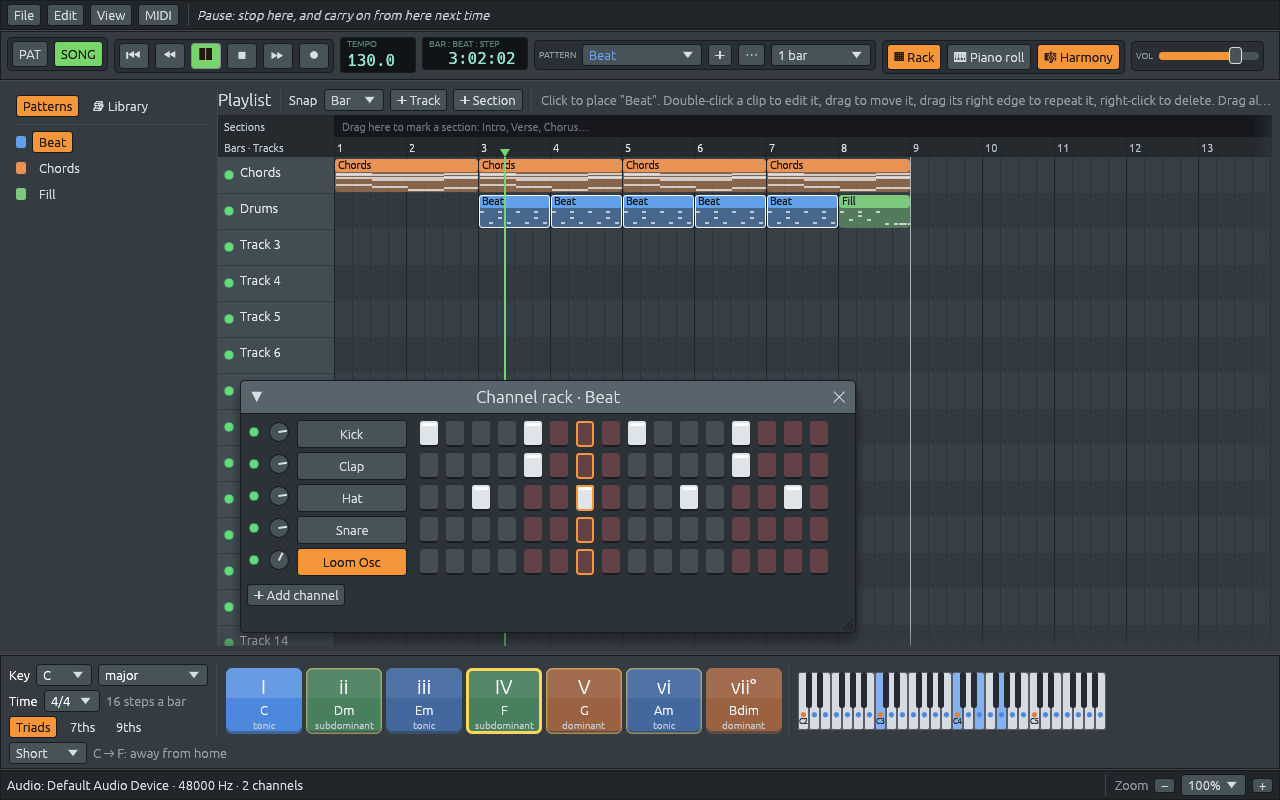
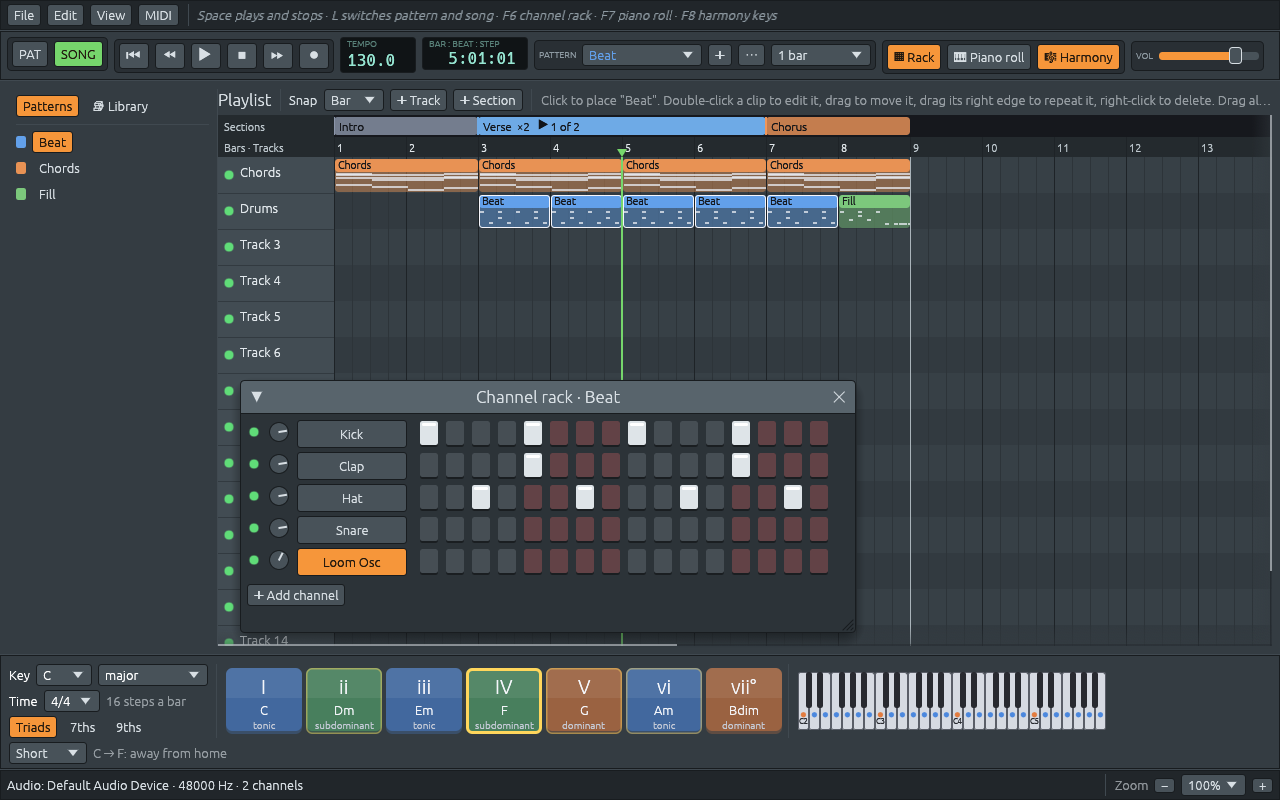
README: new screenshots, the transport, track menu, rhythms and Import recording
The main window shows the demo song with sections and a repeat, and a
table of screenshots shows the piano roll, the Library, an imported
recording and the track menu. The text adds pause, Home, Page Up and
Page Down, the track menu, playing a song in a new rhythm, File >
Import recording, and the loom-listen crate.

Assisted-by: Claude Code

diff --git a/README.md b/README.md
@@ -7,7 +7,7 @@ arrange them into songs, and learn harmony along the way.
 > Ferrous Loom is an independent project. It is not affiliated with
 > Image-Line or FL Studio.
 
-![Ferrous Loom with the playlist, the channel rack and the harmony keys](screenshots/main-window.png)
+![Ferrous Loom playing the demo song: the playlist with its Intro, Verse and Chorus sections, the channel rack, and the harmony keys](screenshots/main-window.png)
 
 ## Status
 
@@ -23,6 +23,7 @@ Early development. Runs on Linux, macOS and Windows.
 | 6 | Harmony tools: selections, arpeggios, inversions, suggestions, ghost notes, velocities | Done |
 | 7 | MIDI in and out: keyboards, external synths, recording, chord names as you play, `.mid` export | Done |
 | 8 | Harmony keys, time signatures, a library of styles and rhythms, public-domain songs as demos | Done |
+| Spike | Import a recording: tempo, key and chords heard from an MP3 or WAV file | Done |
 
 ## Build and run
 
@@ -40,7 +41,10 @@ cargo run --release
 ```
 
 Press **Space** to play the demo song: two bars of a C, Am, F, G chord
-progression, then a beat comes in, and a drum fill ends it. The playlist
+progression, then a beat comes in, and a drum fill ends it. The play
+button pauses while playing, and Stop goes back to where the playhead was
+put. **Home** goes to the start, **Page Up** and **Page Down** skip a bar
+back or forward, and clicking the bar numbers moves the playhead. The playlist
 arranges patterns into a song: click to place a clip of the selected
 pattern, drag clips around, right-click to delete, and double-click a
 clip to edit it: melodies and chords open in the piano roll, drums in
@@ -48,7 +52,8 @@ the channel rack. Drag a clip's right edge to repeat its pattern. Drag
 along the strip above the bar numbers to mark sections (Intro, Verse,
 Chorus…), and click a section to rename it, play it several times in a
 row, loop it or copy it. Drag along the bar numbers to loop part of the
-song. **F6** shows or hides
+song. Right-click a track's name to insert a track above or below it,
+move it up or down, or delete it. **F6** shows or hides
 the channel rack, where you click steps and drop WAV files to use your
 own sounds. **F7** shows the piano roll, on the selected pattern: when
 the channel has no notes there, it says so and offers the patterns that
@@ -78,11 +83,22 @@ light up, and while the music plays, the chord you hear lights up too.
 The **Library** tab next to the pattern list holds 78 harmony styles
 and 49 rhythms from pop, rock, blues, jazz, soul, hip hop, electronic,
 Latin, tango, flamenco, reggae, folk and classical music: click one to
-hear it in your key. **File > Demos** opens 62 songs with their
-melodies, sorted by genre: public-domain tunes from *Ode to Joy* to
+hear it in your key. Pick a rhythm after a style, and the style's chords
+and bass are played the way that rhythm goes; right-click a rhythm and
+**Play the whole song in this rhythm** changes the drums, chords and bass
+of the whole song at once, keeping the melody. **File > Demos** opens
+62 songs with their melodies, sorted by genre: public-domain tunes from *Ode to Joy* to
 *Für Elise* and the *Habanera*, and new tunes written to show off the
 blues, tango, flamenco and more. It also plays every style as a short
 song.
+
+**File > Import recording…** opens an MP3, WAV, FLAC or Ogg file (or
+drop it on the window) and listens to it: the tempo, time signature and
+key are set from the recording, which plays on its own channel, and a
+Harmony channel plays the chord heard on every beat, so the piano roll
+and the harmony keys follow along. This is an early experiment; see
+[`crates/loom-listen`](crates/loom-listen/README.md) for how it works and
+how often it is right.
 
 Too small or too big? The main window, the channel rack and the piano
 roll each have their own zoom. **Ctrl+Plus** and **Ctrl+Minus** (⌘ on a
@@ -98,12 +114,22 @@ Ready-built programs for all three systems are attached to every CI run
 as `ferrous-loom-linux`, `ferrous-loom-macos` and `ferrous-loom-windows`.
 They are not signed yet, so macOS and Windows warn before the first start.
 
+## Screenshots
+
+| | |
+|---|---|
+| ![The piano roll on the chords of the demo song, with the chord names above the grid and the chords that often come next lit up](screenshots/piano-roll.png) | ![The Library tab: Bossa nova has just been tried, and its tooltip shows its chords in C major](screenshots/library.png) |
+| The piano roll names the chords as they play and lights up the ones that often come next. | The Library: 78 harmony styles and 49 rhythms to try in your key. |
+| ![A recording imported with File > Import recording: the chords heard on every beat in the piano roll](screenshots/import-recording.png) | ![The menu of a track: insert above or below, move up or down, delete](screenshots/track-menu.png) |
+| An imported recording, with the chords heard on every beat. | Right-click a track's name to insert, move or delete tracks. |
+
 ## Project layout
 
 | Path | Contents |
 |------|----------|
 | `crates/loom-core` | Music types and theory: notes, scales, chords and chord naming, the harmony keys, tempo and time signatures, patterns, the playlist, project files, undo history and project diffs, the sequencer clock, MIDI messages and MIDI files, recording, and the library of styles, rhythms and songs. No audio, no UI. |
 | `crates/loom-audio` | Real-time audio engine on top of `cpal`: pattern and song playback, drum synthesis, a pitched sampler, a polyphonic synth, MIDI Out channels, live keys, and offline rendering to WAV files. |
+| `crates/loom-listen` | Listening to a recording: decoding audio files, finding the beats, the key and the chord on every beat, and turning them into a project. |
 | `crates/loom-app` | The desktop app (`ferrous-loom`), built with `egui`, with MIDI through `midir`. |
 
 ## License
